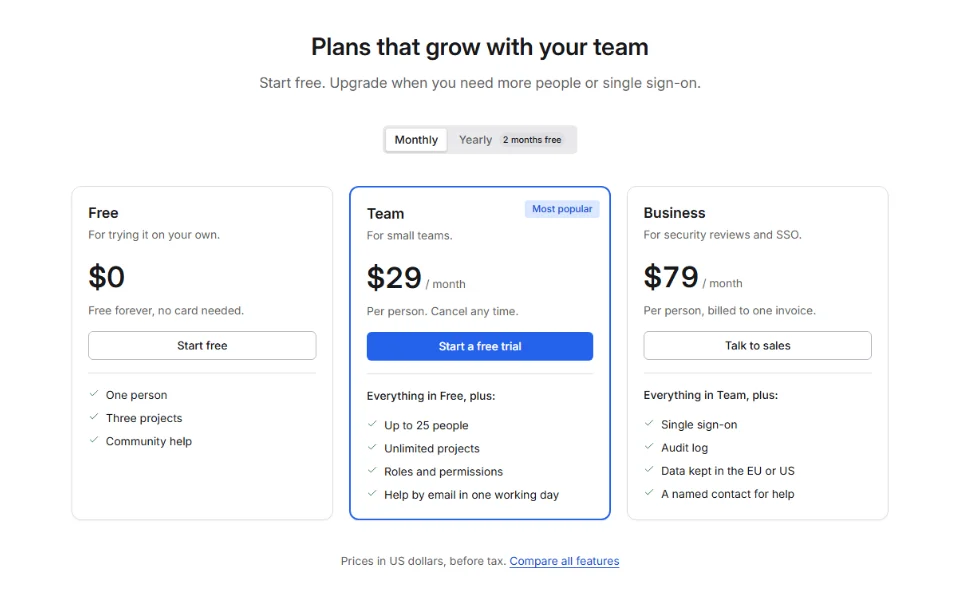
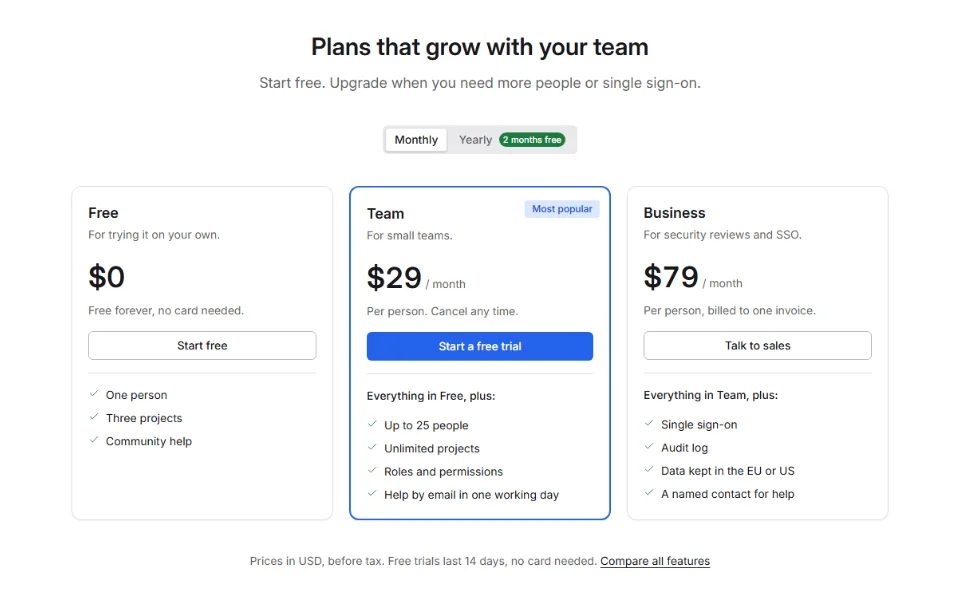
Tab and TabLink BadgeStatus; Pricing and Sign-up links in ink
BadgeStatus colors a tab's badge, solid, so an offer like "2 months free" stands out (Pricing's
Yearly tab uses Success). The small print's links (Compare all features, Privacy policy) take
the text color, not the accent, so they don't compete with the section's button. Pricing's
small print follows the design's copy.

Changed region(s): [[0.25, 0.93, 0.75, 0.96], [0.5, 0.21, 0.5938, 0.27]]

diff --git a/src/IzzyBlazor.Core/Components/Navigation/TabsBase.cs b/src/IzzyBlazor.Core/Components/Navigation/TabsBase.cs
@@ -44,7 +44,7 @@ public abstract class TabsBase : LayoutItemBase
     }
 
     /// <summary>A tab's icon, text and badge, then <paramref name="after"/>.</summary>
-    private protected static RenderFragment TabContent(IconData? icon, string label, string? badge, RenderFragment? after = null) => builder =>
+    private protected static RenderFragment TabContent(IconData? icon, string label, string? badge, Status badgeStatus, RenderFragment? after = null) => builder =>
     {
         if (icon is { } shown)
         {
@@ -62,10 +62,15 @@ public abstract class TabsBase : LayoutItemBase
             builder.OpenComponent<Badge>(5);
             builder.AddComponentParameter(6, nameof(Badge.Size), BadgeSize.Sm);
             builder.AddComponentParameter(7, nameof(Badge.Pill), true);
-            builder.AddComponentParameter(8, nameof(Badge.ChildContent), (RenderFragment)(b => b.AddContent(0, badge)));
+            if (badgeStatus != Status.Neutral)
+            {
+                builder.AddComponentParameter(8, nameof(Badge.Status), badgeStatus);
+                builder.AddComponentParameter(9, nameof(Badge.Variant), BadgeVariant.Solid);
+            }
+            builder.AddComponentParameter(10, nameof(Badge.ChildContent), (RenderFragment)(b => b.AddContent(0, badge)));
             builder.CloseComponent();
         }
 
-        builder.AddContent(9, after);
+        builder.AddContent(11, after);
     };
 }
